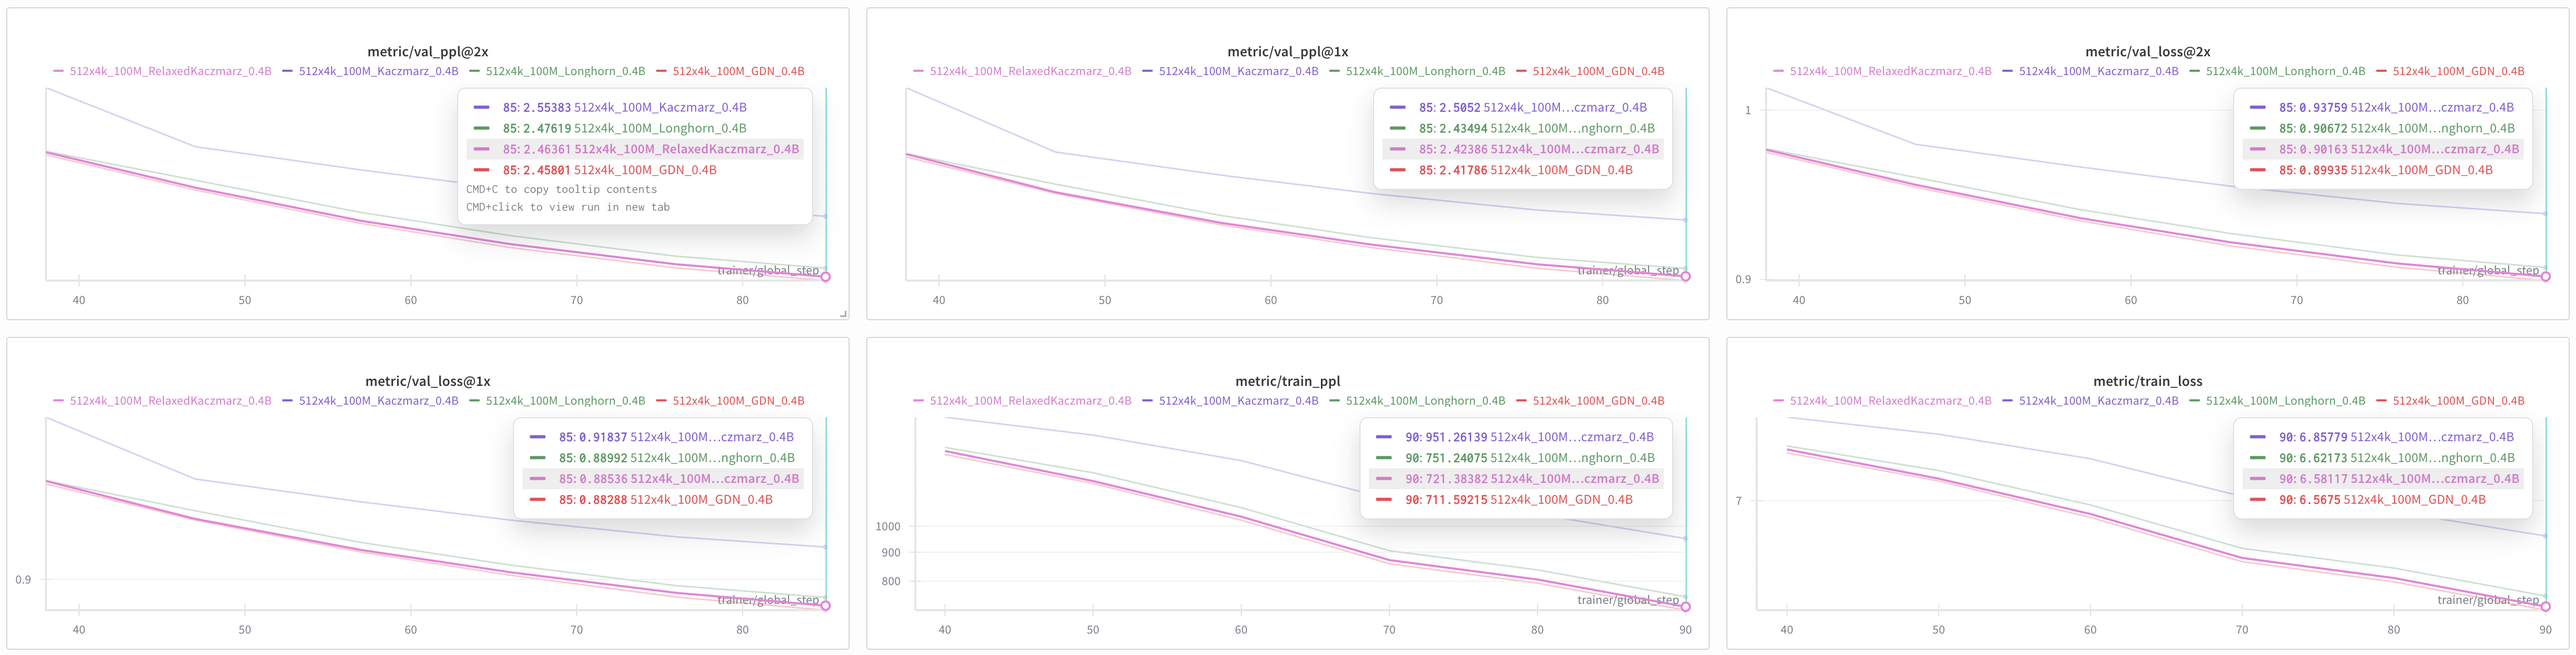
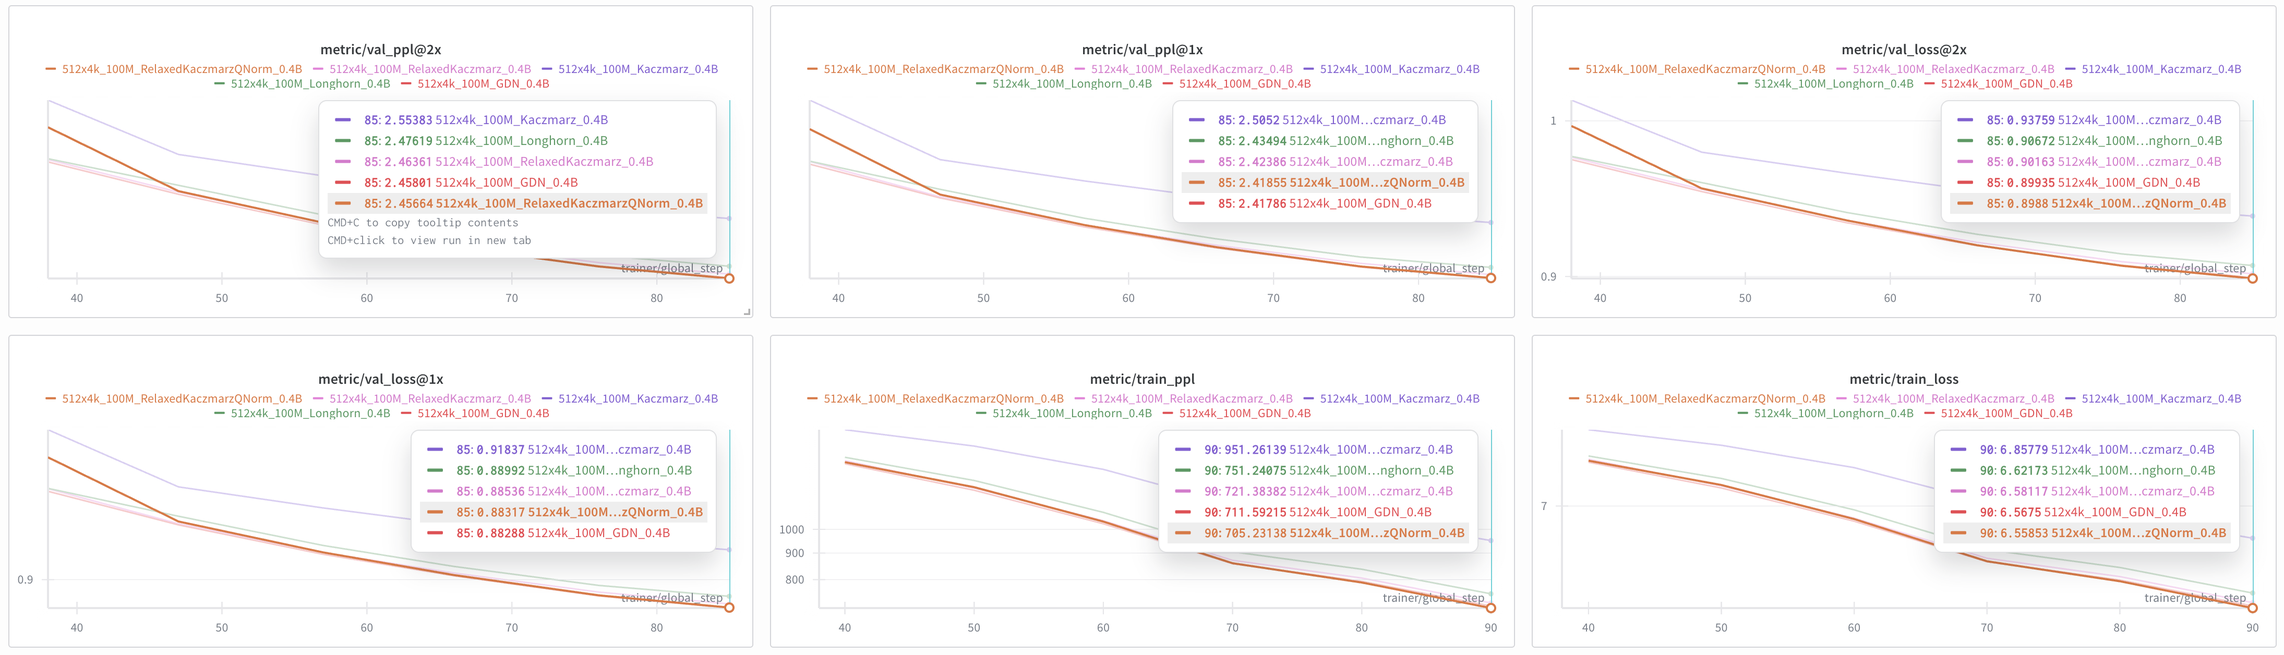
docs: 更新实验描述并补充结论
移除冗余描述，将结论性陈述移至图表说明之后，并补充关于 q norm trick 的对比结果。

diff --git a/_posts/2026-02-08-kaczmarz.md b/_posts/2026-02-08-kaczmarz.md
@@ -176,7 +176,7 @@ $$
 
 ## 8. 实验
 
-我们在 SlimPajama 数据集上训练了 1 亿个 token，并在验证集上绘制了困惑度（ppl）与 Loss 随 token horizon 变化的曲线。图中 @1x 与 @2x 分别对应序列长度 2048 与 4096 的评估结果。若 Longhorn 可视为 Kaczmarz 的某种形式，则 Relaxed Kaczmarz 理应更优，实验亦证实了这一点。
+我们在 SlimPajama 数据集上训练了 1 亿个 token，并在验证集上绘制了困惑度（ppl）与 Loss 随 token horizon 变化的曲线。图中 @1x 与 @2x 分别对应序列长度 2048 与 4096 的评估结果。
 
 {% include figure.liquid 
     path="assets/img/post-02-08/result.png" 
@@ -187,7 +187,7 @@ $$
     caption="在 SlimPajama 数据集上的实验结果。@1x 代表序列长度为 2048，@2x 代表序列长度为 4096。"
 %}
 
-
+若 Longhorn 可视为 Kaczmarz 的某种形式，则 Relaxed Kaczmarz 理应更优，实验亦证实了这一点。同时，gated deltanet 使用了 qk norm 的 trick，如果我们也补充上 q norm 这个 trick，可以得到 relaxed kaczmarz + q norm 和 gated deltanet 不相上下的结果。
 
 ## 参考文献
 
